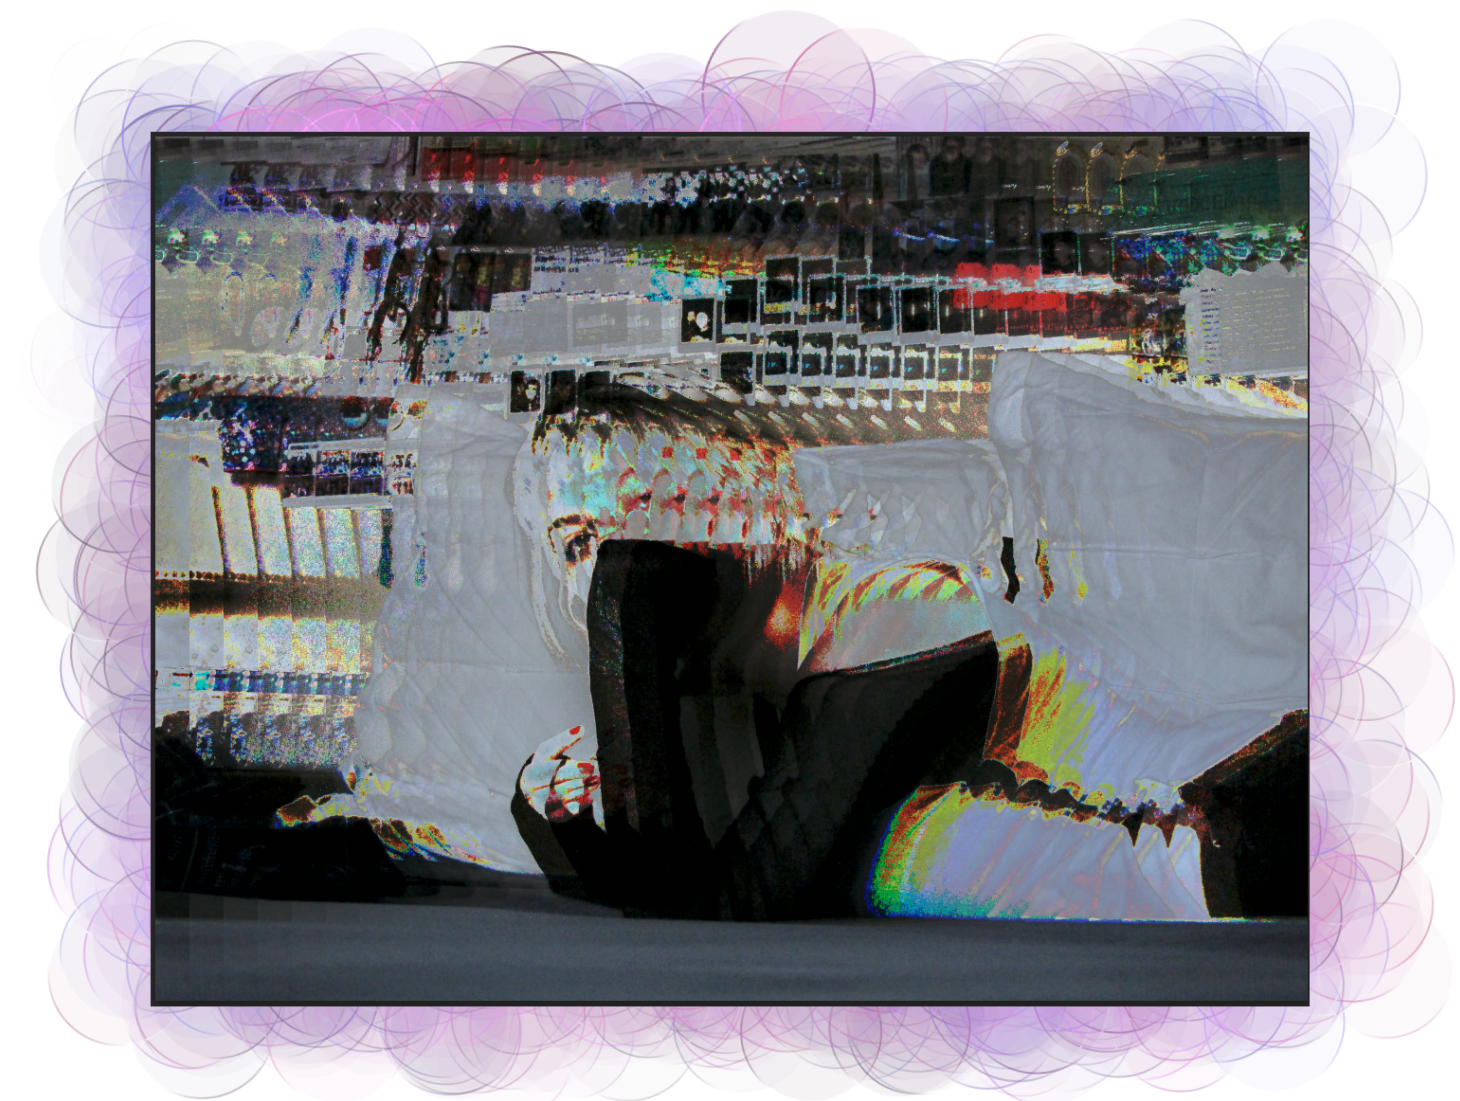
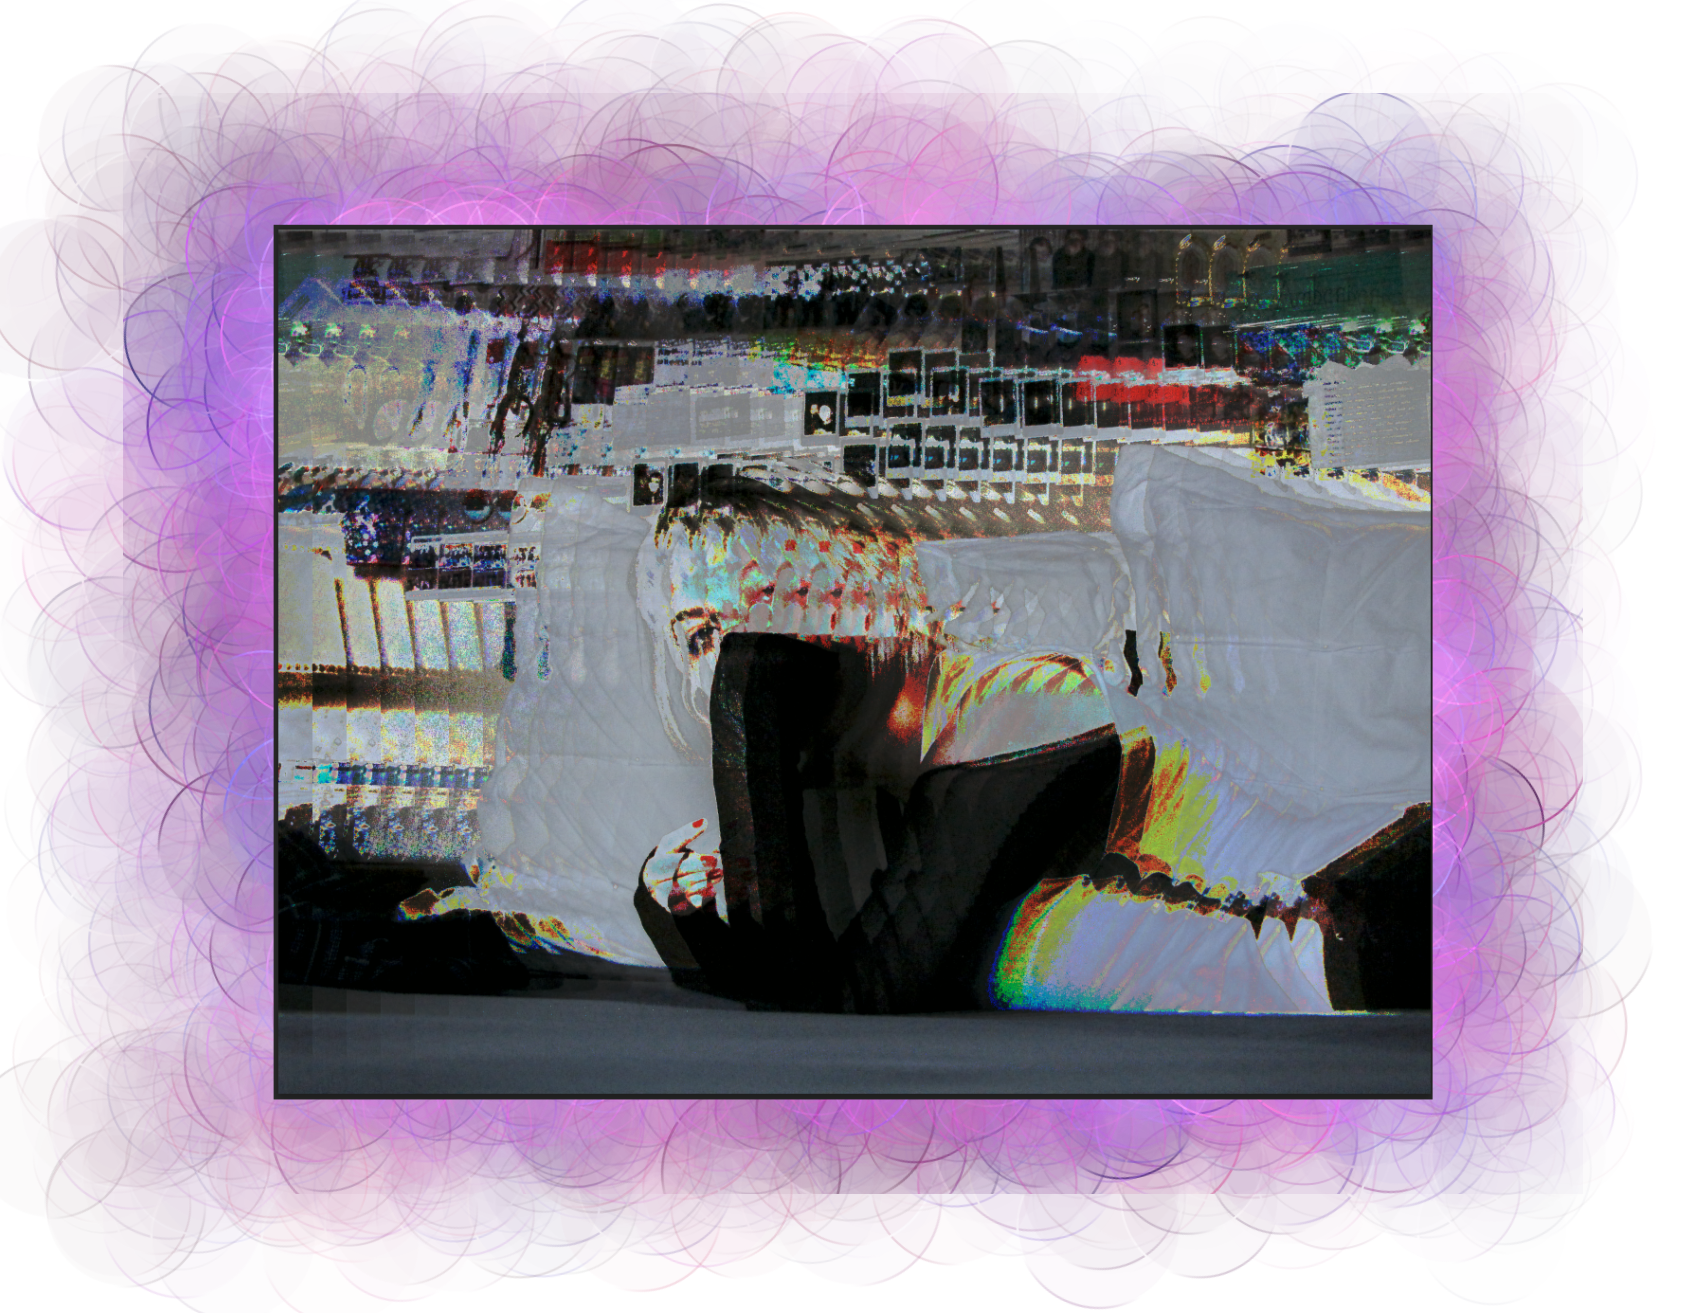
add

diff --git a/DIYphotoshop.htm b/DIYphotoshop.htm
@@ -70,7 +70,7 @@
   }
 
   .content {
-    margin-top: 70px; /* Add margin to prevent the header from being hidden behind the navbar */
+    margin-top: 30px; /* Add margin to prevent the header from being hidden behind the navbar */
     margin-left: 220px; /* Ensure content does not overlap with the sidebar */
   }
 </style>

diff --git a/aboutme.htm b/aboutme.htm
@@ -85,7 +85,7 @@
   }
 
   .content {
-    margin-top: 70px; /* Add margin to prevent the header from being hidden behind the navbar */
+    margin-top: 30px; /* Add margin to prevent the header from being hidden behind the navbar */
     margin-left: 220px; /* Ensure content does not overlap with the sidebar */
   }
 </style>

diff --git a/finalgame.htm b/finalgame.htm
@@ -83,7 +83,7 @@
   }
 
   .content {
-    margin-top: 70px; /* Add margin to prevent the header from being hidden behind the navbar */
+    margin-top: 30px; /* Add margin to prevent the header from being hidden behind the navbar */
     margin-left: 220px; /* Ensure content does not overlap with the sidebar */
   }
 </style>

diff --git a/glitch.htm b/glitch.htm
@@ -83,7 +83,7 @@
   }
 
   .content {
-    margin-top: 70px; /* Add margin to prevent the header from being hidden behind the navbar */
+    margin-top: 30px; /* Add margin to prevent the header from being hidden behind the navbar */
     margin-left: 220px; /* Ensure content does not overlap with the sidebar */
   }
 </style>

diff --git a/index.html b/index.html
@@ -87,7 +87,7 @@
   }
 
   .content {
-    margin-top: 70px; /* Add margin to prevent the header from being hidden behind the navbar */
+    margin-top: 30px; /* Add margin to prevent the header from being hidden behind the navbar */
     margin-left: 220px; /* Ensure content does not overlap with the sidebar */
   }
 </style>

diff --git a/interactgame.htm b/interactgame.htm
@@ -83,7 +83,7 @@
   }
 
   .content {
-    margin-top: 70px; /* Add margin to prevent the header from being hidden behind the navbar */
+    margin-top: 30px; /* Add margin to prevent the header from being hidden behind the navbar */
     margin-left: 220px; /* Ensure content does not overlap with the sidebar */
   }
 </style>

diff --git a/mememashup.htm b/mememashup.htm
@@ -83,7 +83,7 @@
   }
 
   .content {
-    margin-top: 70px; /* Add margin to prevent the header from being hidden behind the navbar */
+    margin-top: 30px; /* Add margin to prevent the header from being hidden behind the navbar */
     margin-left: 220px; /* Ensure content does not overlap with the sidebar */
   }
 </style>

diff --git a/minecraft.htm b/minecraft.htm
@@ -83,7 +83,7 @@
   }
 
   .content {
-    margin-top: 70px; /* Add margin to prevent the header from being hidden behind the navbar */
+    margin-top: 30px; /* Add margin to prevent the header from being hidden behind the navbar */
     margin-left: 220px; /* Ensure content does not overlap with the sidebar */
   }
 </style>

diff --git a/netart.htm b/netart.htm
@@ -83,7 +83,7 @@
   }
 
   .content {
-    margin-top: 70px; /* Add margin to prevent the header from being hidden behind the navbar */
+    margin-top: 30px; /* Add margin to prevent the header from being hidden behind the navbar */
     margin-left: 220px; /* Ensure content does not overlap with the sidebar */
   }
 </style>

diff --git a/video.html b/video.html
@@ -83,7 +83,7 @@
   }
 
   .content {
-    margin-top: 70px; /* Add margin to prevent the header from being hidden behind the navbar */
+    margin-top: 30px; /* Add margin to prevent the header from being hidden behind the navbar */
     margin-left: 220px; /* Ensure content does not overlap with the sidebar */
   }
 </style>

diff --git a/video2.html b/video2.html
@@ -83,7 +83,7 @@
   }
 
   .content {
-    margin-top: 70px; /* Add margin to prevent the header from being hidden behind the navbar */
+    margin-top: 30px; /* Add margin to prevent the header from being hidden behind the navbar */
     margin-left: 220px; /* Ensure content does not overlap with the sidebar */
   }
 </style>

diff --git a/video3.html b/video3.html
@@ -83,7 +83,7 @@
   }
 
   .content {
-    margin-top: 70px; /* Add margin to prevent the header from being hidden behind the navbar */
+    margin-top: 30px; /* Add margin to prevent the header from being hidden behind the navbar */
     margin-left: 220px; /* Ensure content does not overlap with the sidebar */
   }
 </style>
